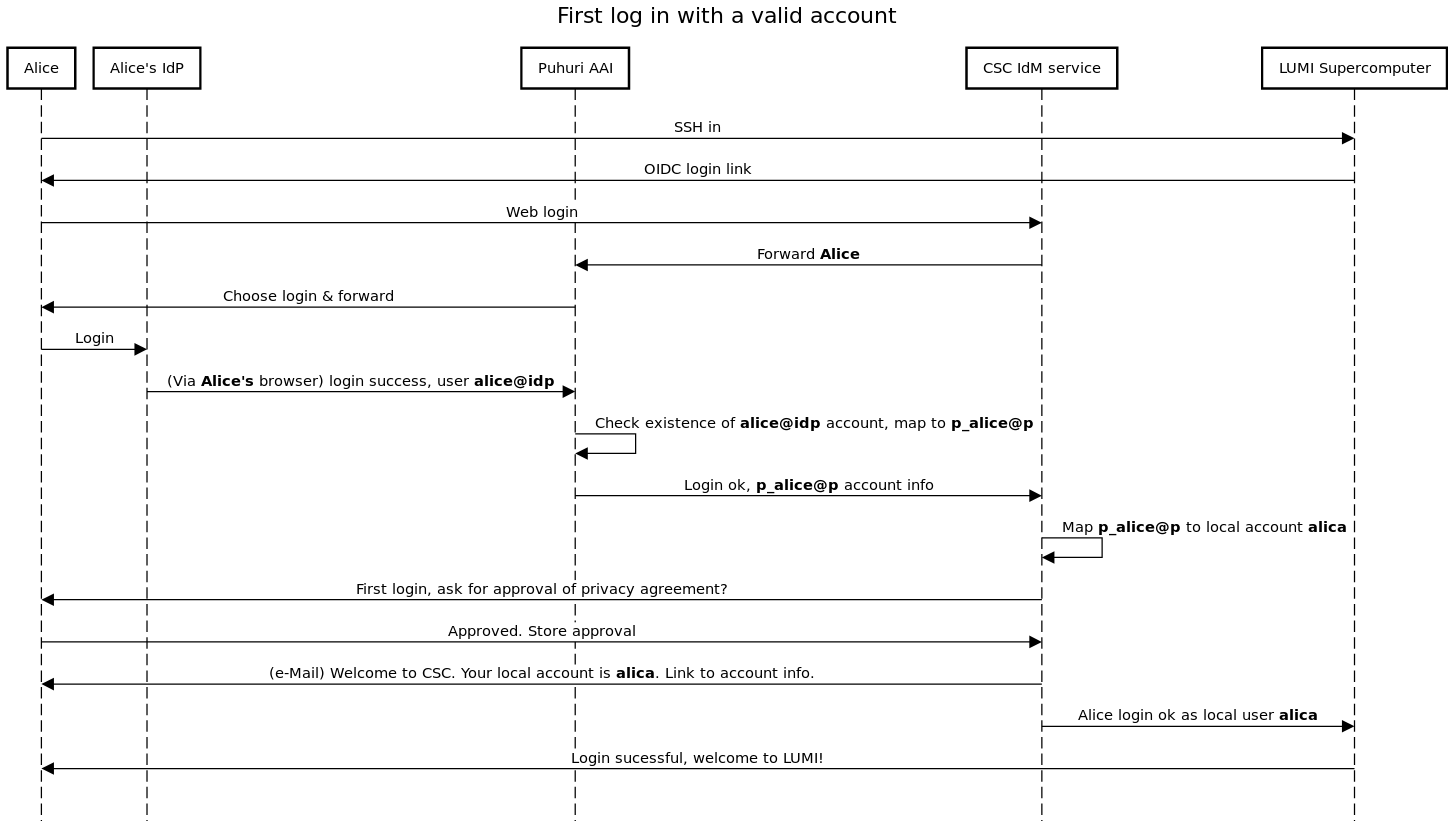
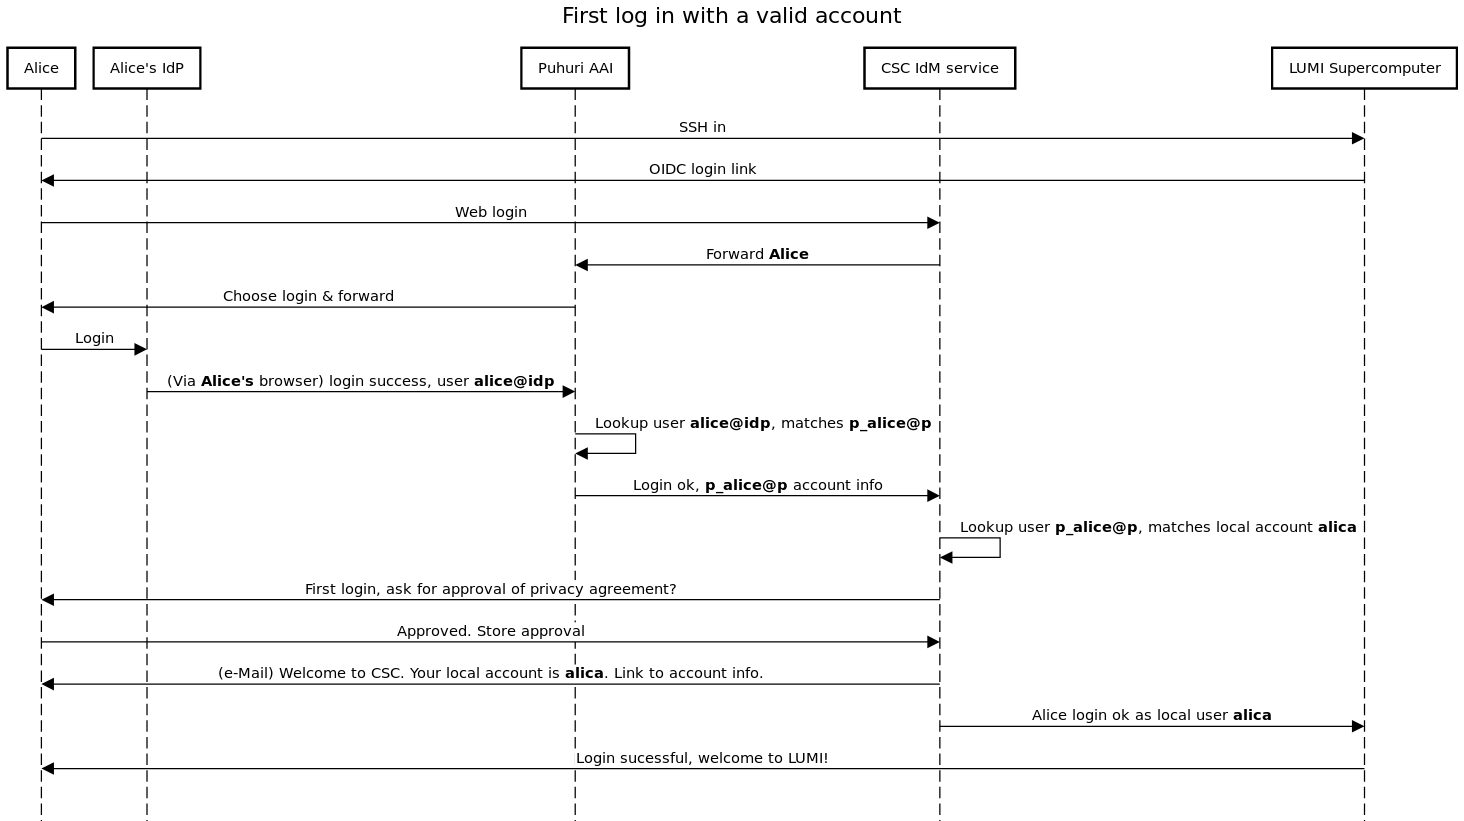
Clarified text in diagrams
Added missing diagram for object_storage_web.png
Improved readme

diff --git a/diagrams/REAME.md b/diagrams/REAME.md
@@ -6,36 +6,39 @@ This directory contains a set of diagrams for the user access management worked 
 
 ## Simple registration - no integration to national system
 
- * user_registration_fed.txt - User registration with federated AAI
- * user_registration_no_fed.txt - User registration with catch-all AAI
- * project_create.txt - Project creation, membeship management
- * resource_request.txt - Resource request for project
+ * user_registration_fed - User registration with federated AAI
+
+[user_registration_fed](user_registration_fed.png)
+
+ * user_registration_no_fed - User registration with catch-all AAI
+ * project_create - Project creation, membeship management
+ * resource_request - Resource request for project
 
 ## National portal integration
 
 Option 1) National resource allocator controls identities
 
- * national_resource_allocation.txt - Main workflows with national resource allocation portal
- * national_data_changes.txt - Managing changing data with national resource allocation portal
+ * national_resource_allocation - Main workflows with national resource allocation portal
+ * national_data_changes - Managing changing data with national resource allocation portal
 
 Option 2) User controls their own identity
  
- * national_resource_allocation_alt.txt - Main workflows with national resource allocation portal
- * national_data_changes_alt.txt - Managing changing data with national resource allocation portal
+ * national_resource_allocation_alt - Main workflows with national resource allocation portal
+ * national_data_changes_alt - Managing changing data with national resource allocation portal
 
 ## User login diagrams
 
- * login_first.txt - First login to LUMI
- * login.txt - Login with an existing account
- * login_no_account.txt - Login without an account
- * login_no_allocation.txt - Login without an allocation
- * login_ssh_keys.txt - Login with SSH keys
- * object_storage_api.txt - Login to the object storage API
- * object_storage_web.txt - Login to the object storage web interface
+ * login_first - First login to LUMI
+ * login - Login with an existing account
+ * login_no_account - Login without an account
+ * login_no_allocation - Login without an allocation
+ * login_ssh_keys - Login with SSH keys
+ * object_storage_api - Login to the object storage API
+ * object_storage_web - Login to the object storage web interface
 
 ## Backend (service integration)
- * resource_allocation_sync_new.txt - Sync resource allocations for a project which exist in the backed
- * resource_allocation_sync_existing.txt - Sync resource allocations for a project which doesn't exist yet
- * membership_update.txt - Update of project members
- * project_expiry.txt - Project expiry
- * resource_use_report.txt - Reporting resource use
+ * resource_allocation_sync_new - Sync resource allocations for a project which exist in the backed
+ * resource_allocation_sync_existing - Sync resource allocations for a project which doesn't exist yet
+ * membership_update - Update of project members
+ * project_expiry - Project expiry
+ * resource_use_report - Reporting resource use
